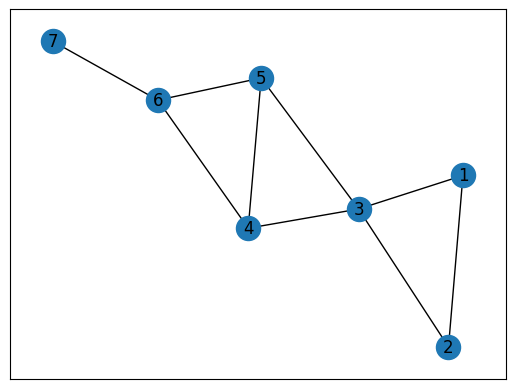
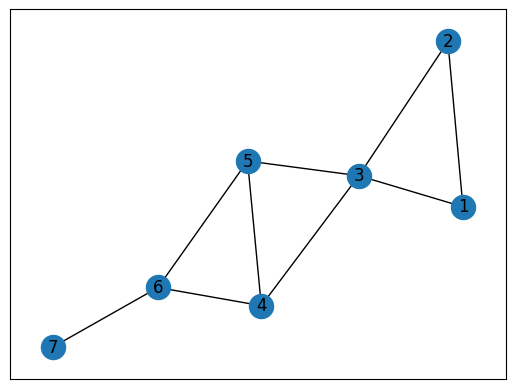
Add graph visualization using matplotlib

diff --git a/original_program.py b/original_program.py
@@ -21,21 +21,11 @@ import dwave_networkx as dnx
 # Import dwave.system packages for the QPU
 from dwave.system import DWaveSampler, EmbeddingComposite
 
-from bokeh.io import output_file, show
-from bokeh.models import (Circle, HoverTool,MultiLine, Plot, EdgesAndLinkedNodes, NodesAndLinkedEdges)
-from bokeh.palettes import Spectral4
-from bokeh.plotting import from_networkx
-from bokeh.models import ColumnDataSource
+# Import matplotlib.pyplot to draw graphs on screen
+import matplotlib
+matplotlib.use("agg")
+import matplotlib.pyplot as plt
 
-# Define your data
-data = {
-    'x': [1, 2, 3, 4, 5],
-    'y': [1, 2, 3, 4, 5],
-    'color': ['red', 'blue', 'green', 'orange', 'purple']
-}
-
-# Create a ColumnDataSource from the data
-source = ColumnDataSource(data)
 
 # Set the solver we're going to use
 def set_sampler():
@@ -85,51 +75,23 @@ if __name__ == "__main__":
     print('Maximum independent set size found is', len(S))
     print(S)
 
-# Visualize the results
-subset_1 = G.subgraph(S)
-notS = list(set(G.nodes()) - set(S))
-subset_0 = G.subgraph(notS)
+    # Visualize the results
+    subset_1 = G.subgraph(S)
+    notS = list(set(G.nodes()) - set(S))
+    subset_0 = G.subgraph(notS)
+    pos = nx.spring_layout(G)
+    plt.figure()
 
-# Add a color attribute to the nodes in the graph
-for node in G.nodes():
-    G.nodes[node]['color'] = 'red' if node in S else 'blue'
+    # Save original problem graph
+    original_name = "antenna_plot_original.png"
+    nx.draw_networkx(G, pos=pos, with_labels=True)
+    plt.savefig(original_name, bbox_inches='tight')
 
-# Create a Bokeh plot with the spring layout
-plot = Plot(width=400, height=400,
-            x_range=Range1d(-1.1, 1.1), y_range=Range1d(-1.1, 1.1))
-plot.title.text = "Graph Interaction Demonstration"
+    # Save solution graph
+    # Note: red nodes are in the set, blue nodes are not
+    solution_name = "antenna_plot_solution.png"
+    nx.draw_networkx(subset_1, pos=pos, with_labels=True, node_color='r', font_color='k')
+    nx.draw_networkx(subset_0, pos=pos, with_labels=True, node_color='b', font_color='w')
+    plt.savefig(solution_name, bbox_inches='tight')
 
-# Create a graph renderer from the networkx graph
-graph_renderer = from_networkx(G, nx.spring_layout, scale=1, center=(0, 0))
-
-# Get the node indices
-node_indices = list(G.nodes)
-
-# Add the node indices to the graph renderer's node data
-graph_renderer.node_renderer.data_source.add(node_indices, 'index')
-
-# Create a hover tool that only applies to the graph renderer
-hover_tool = HoverTool(tooltips=[("index", "@index")], renderers=[graph_renderer.node_renderer])
-
-# Add the hover tool to the plot
-plot.add_tools(hover_tool)
-
-graph_renderer = from_networkx(G, nx.spring_layout, scale=1, center=(0, 0))
-
-# Provide node colors based on the solution
-graph_renderer.node_renderer.glyph = Circle(size=15, fill_color='color')
-
-graph_renderer.node_renderer.selection_glyph = Circle(size=15, fill_color=Spectral4[2])
-graph_renderer.node_renderer.hover_glyph = Circle(size=15, fill_color=Spectral4[1])
-
-graph_renderer.edge_renderer.glyph = MultiLine(line_color="#CCCCCC", line_alpha=0.8, line_width=1)
-graph_renderer.edge_renderer.selection_glyph = MultiLine(line_color=Spectral4[2], line_width=2)
-graph_renderer.edge_renderer.hover_glyph = MultiLine(line_color=Spectral4[1], line_width=2)
-
-graph_renderer.selection_policy = NodesAndLinkedEdges()
-graph_renderer.inspection_policy = EdgesAndLinkedNodes()
-
-plot.renderers.append(graph_renderer)
-
-output_file("interactive_graphs.html")
-# show(plot)
+    print("Your plots are saved to {} and {}".format(original_name, solution_name))
